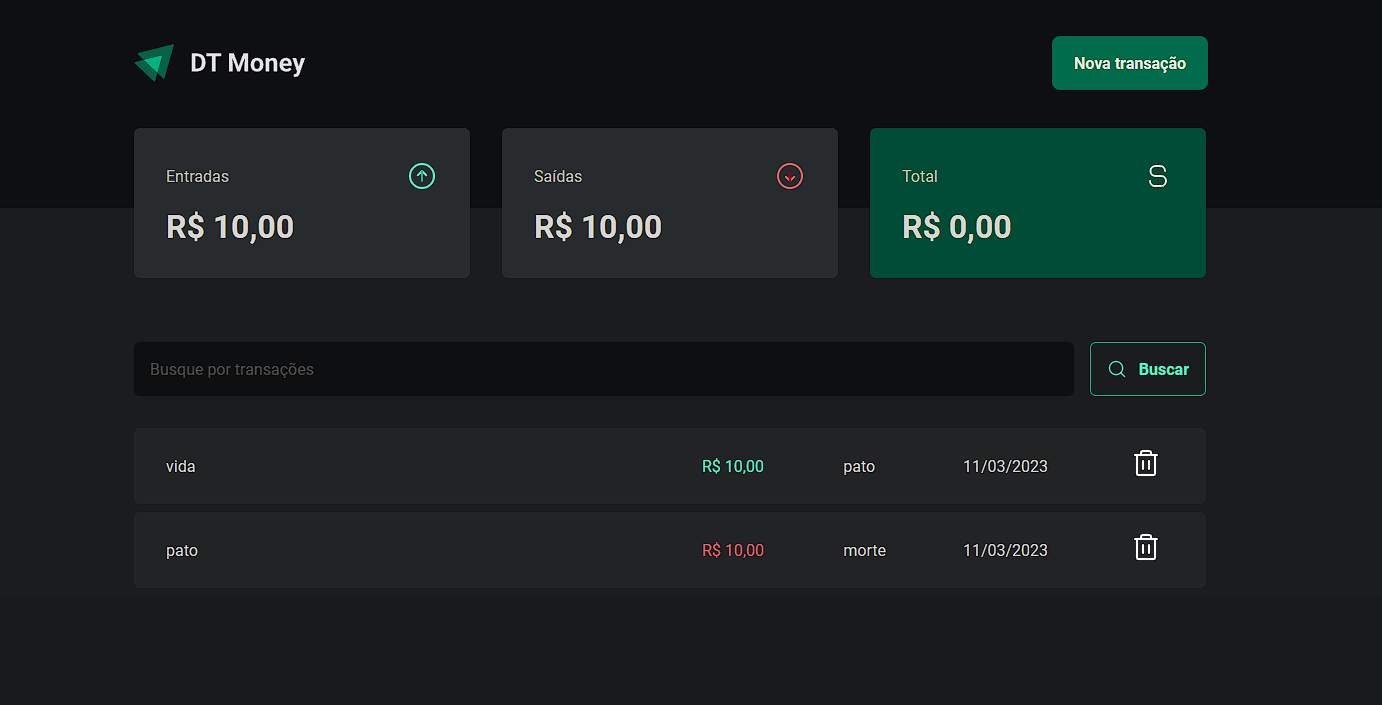
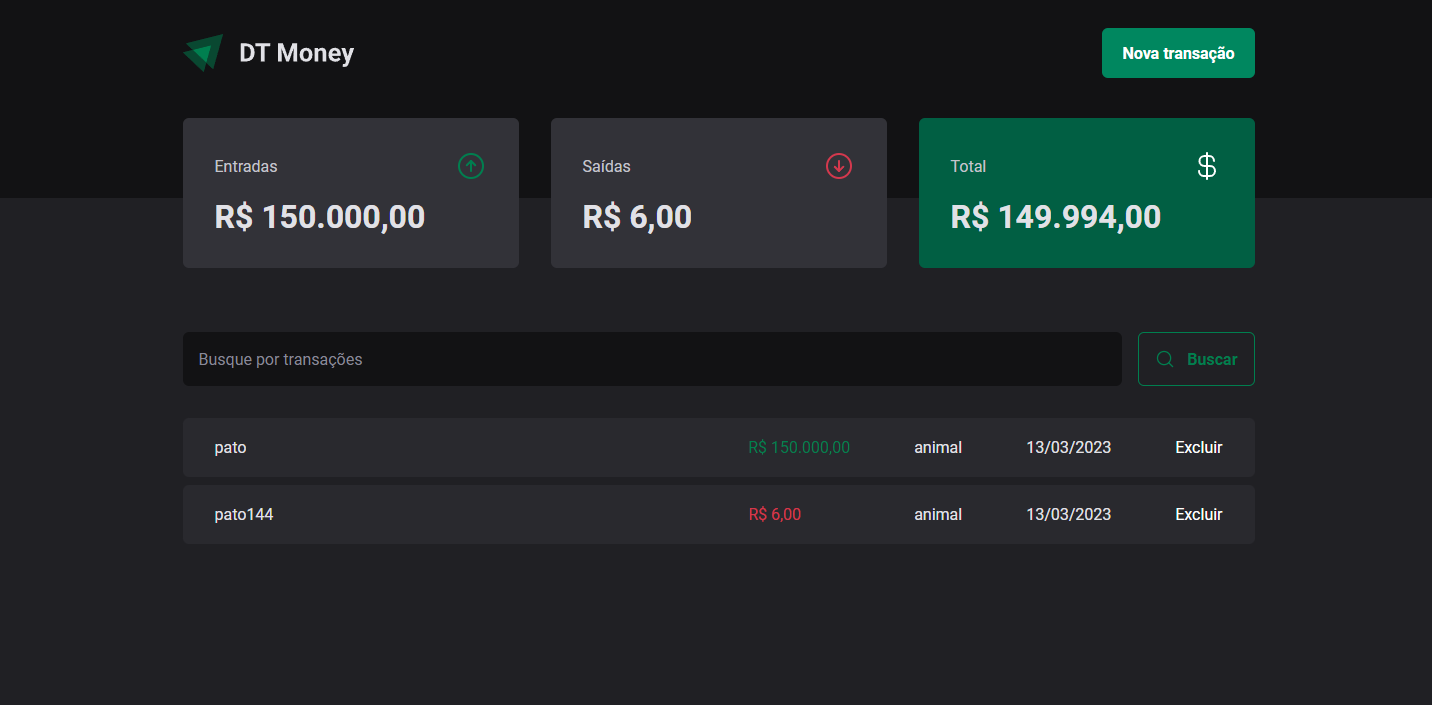
add delete action for transactions

diff --git a/src/pages/Transactions/index.tsx b/src/pages/Transactions/index.tsx
@@ -1,18 +1,18 @@
-import { MouseEventHandler, useContext } from "react";
+import { useContext, MouseEvent } from "react";
 import { Header } from "../../components/Header";
 import { SearchForm } from "../../components/SearchForm";
 import { Summary } from "../../components/Summary";
 import { TransactionsContext } from "../../contexts/TransactionsContext";
 import { dateFormatter, priceFormatter } from "../../utils/formatter";
-import { PriceHighLight, TransactionsContainer, TransactionsTable } from "./styles";
-import { Trash } from "phosphor-react";
-
+import { ButtonTrash, PriceHighLight, TransactionsContainer, TransactionsTable } from "./styles";
 
 export function Transactions() {
-    const { transactions } = useContext(TransactionsContext)
-    
+    const { transactions, deleteTransaction } = useContext(TransactionsContext)
+
     return (
+        
         <div>
+            
             <Header/>
             <Summary/>
 
@@ -22,6 +22,12 @@ export function Transactions() {
                 <TransactionsTable>
                     <tbody>
                         {transactions.map(transaction => {
+                            const handleInput = (e: React.ChangeEvent<HTMLInputElement>) => {
+                                const buttonValue = e.target.value;
+                                
+                                deleteTransaction(parseInt(buttonValue))
+                        
+                            }
                             return (
                                
                                 <tr key={transaction.id}>
@@ -33,7 +39,17 @@ export function Transactions() {
                                     </td>
                                     <td>{transaction.category}</td>
                                     <td>{dateFormatter.format(new Date(transaction.createdAt))}</td>
-                                    <td><button><Trash size={32}/></button></td>
+                                    <td>
+                                     <ButtonTrash
+                                        value={transaction.id}
+                                        onClick={(e) => {
+                                            // @ts-expect-error
+                                            handleInput(e) 
+                                        }}
+                                      >
+                                        Excluir
+                                      </ButtonTrash>
+                                    </td>
                                 </tr>
                             )
                         })}

diff --git a/src/contexts/TransactionsContext.tsx b/src/contexts/TransactionsContext.tsx
@@ -21,16 +21,26 @@ interface TransactionContextType {
     transactions: Transaction[];
     fetchTransactions: (query?: string) => Promise<void>;
     createTransaction: (data: CreateTransactionInput) => Promise<void>
+    deleteTransaction:(value: number) => void
 }
 
 interface TransactionsProviderProps {
     children: ReactNode
 }
 
+
 export const TransactionsContext = createContext({} as TransactionContextType);
 
 export function TransactionsProvider({ children }: TransactionsProviderProps) {
     const [ transactions, setTransactions] = useState<Transaction[]>([])
+
+    function deleteTransaction(value: number) {
+        api.delete('transactions/'+value)
+        console.log(value)
+        setTransactions(transactions.filter(item => item.id != value))   
+        console.log(transactions)
+
+    }
 
     async function fetchTransactions(query?: string) {
         const response = await api.get('transactions', {
@@ -58,12 +68,14 @@ export function TransactionsProvider({ children }: TransactionsProviderProps) {
         setTransactions(state => [response.data, ...state])
     }
 
+    
+
     useEffect(() => {
         fetchTransactions()
     }, [])
 
     return (
-        <TransactionsContext.Provider value={{ transactions, fetchTransactions, createTransaction }}>
+        <TransactionsContext.Provider value={{ transactions, fetchTransactions, createTransaction, deleteTransaction }}>
             {children}
         </TransactionsContext.Provider>
     )

diff --git a/src/pages/Transactions/styles.ts b/src/pages/Transactions/styles.ts
@@ -42,10 +42,24 @@ export const TransactionsTable = styled.table`
         }
     }
 `
+export const ButtonTrash = styled.button`
+    width: 100%;
+    height: 100%;
+
+    &:hover {
+        color: ${props => props.theme['red-300']};
+
+        transition: 0.3s;
+    }
+    /* background: red !important;; */
+
+    
+`
 
 interface PriceHighLightProps {
     variant: "income" | "outcome";
 }
+
 
 export const PriceHighLight = styled.span<PriceHighLightProps>`
     color: ${props => props.variant === "income" ? props.theme["green-300"] : props.theme['red-300']};

diff --git a/src/components/NewTransactionModal/index.tsx b/src/components/NewTransactionModal/index.tsx
@@ -15,6 +15,8 @@ const newTransactionFormSchema = z.object({
     type: z.enum(['income', 'outcome']),
 })
 
+
+
 type NewTransactionFormInputs = z.infer<typeof newTransactionFormSchema>
 
 export function NewTransactionModal() {
@@ -43,7 +45,6 @@ export function NewTransactionModal() {
         
       }
 
-      
     return (
 
         <Dialog.Portal>
